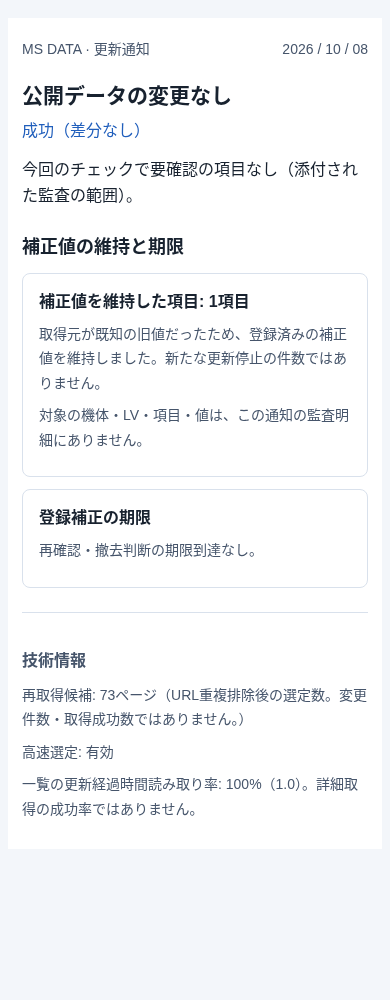
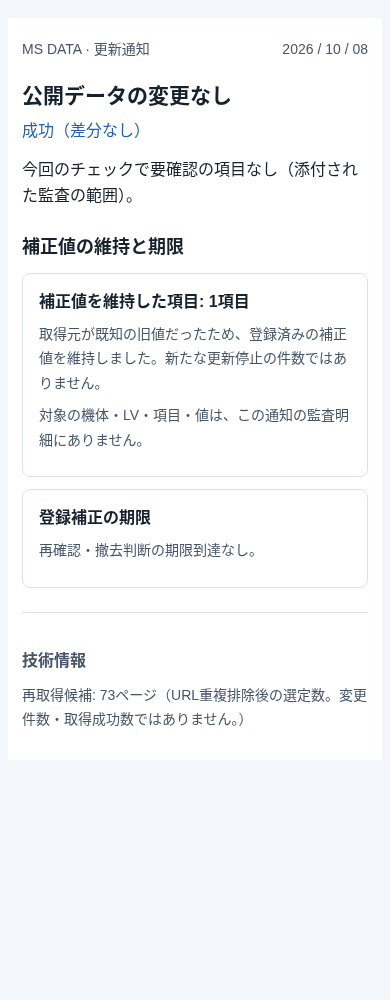
fix(notify): 空の監査表と取得証拠の対象不一致を扱う

diff --git a/docs/notification_examples/no-change.html b/docs/notification_examples/no-change.html
@@ -26,7 +26,7 @@
 <p class="result" style="color:#215fbc;font-size:16px;margin:0 0 12px">成功（差分なし）</p>
 <p class="action" style="font-size:16px;margin:0 0 24px">今回のチェックで要確認の項目なし（添付された監査の範囲）。</p>
 <div class="maintenance" style="margin:24px 0 0"><h2 style="font-size:18px;line-height:1.5;margin:0 0 12px;font-weight:600">補正値の維持と期限</h2><div class="audit-card" style="padding:16px;border:1px solid #d9e1ec;border-radius:8px;margin:0 0 12px;background:#fff;overflow-wrap:anywhere;word-wrap:break-word"><h3 style="font-size:16px;line-height:1.5;margin:0 0 8px;font-weight:600">補正値を維持した項目: 1項目</h3><p class="note" style="font-size:14px;line-height:1.75;color:#46556b;margin:8px 0;overflow-wrap:anywhere;word-wrap:break-word">取得元が既知の旧値だったため、登録済みの補正値を維持しました。新たな更新停止の件数ではありません。</p><p class="note" style="font-size:14px;line-height:1.75;color:#46556b;margin:8px 0;overflow-wrap:anywhere;word-wrap:break-word">対象の機体・LV・項目・値は、この通知の監査明細にありません。</p></div><div class="audit-card" style="padding:16px;border:1px solid #d9e1ec;border-radius:8px;margin:0 0 12px;background:#fff;overflow-wrap:anywhere;word-wrap:break-word"><h3 style="font-size:16px;line-height:1.5;margin:0 0 8px;font-weight:600">登録補正の期限</h3><p class="note" style="font-size:14px;line-height:1.75;color:#46556b;margin:8px 0;overflow-wrap:anywhere;word-wrap:break-word">再確認・撤去判断の期限到達なし。</p></div></div>
-<div class="footer" style="border-top:1px solid #d9e1ec;margin-top:24px;padding-top:20px"><h2 class="footer-heading" style="font-size:18px;line-height:1.5;margin:0 0 12px;font-weight:600;font-size:16px;margin:16px 0 10px;color:#46556b;font-weight:600">技術情報</h2><p class="note" style="font-size:14px;line-height:1.75;color:#46556b;margin:8px 0;overflow-wrap:anywhere;word-wrap:break-word">再取得候補: 73ページ（URL重複排除後の選定数。変更件数・取得成功数ではありません。）</p><p class="note" style="font-size:14px;line-height:1.75;color:#46556b;margin:8px 0;overflow-wrap:anywhere;word-wrap:break-word">高速選定: 有効</p><p class="note" style="font-size:14px;line-height:1.75;color:#46556b;margin:8px 0;overflow-wrap:anywhere;word-wrap:break-word">一覧の更新経過時間読み取り率: 100%（1.0）。詳細取得の成功率ではありません。</p></div>
+<div class="footer" style="border-top:1px solid #d9e1ec;margin-top:24px;padding-top:20px"><h2 class="footer-heading" style="font-size:18px;line-height:1.5;margin:0 0 12px;font-weight:600;font-size:16px;margin:16px 0 10px;color:#46556b;font-weight:600">技術情報</h2><p class="note" style="font-size:14px;line-height:1.75;color:#46556b;margin:8px 0;overflow-wrap:anywhere;word-wrap:break-word">再取得候補: 73ページ（URL重複排除後の選定数。変更件数・取得成功数ではありません。）</p></div>
 </td></tr>
 </table>
 </td></tr>

diff --git a/ms_data/reporting/update_mail_model.py b/ms_data/reporting/update_mail_model.py
@@ -285,6 +285,13 @@ def _detail_count_issues(
     issues = []
     for summary_heading, specs in _DETAIL_COUNTS.items():
         summary = summaries.get(summary_heading, {})
+        has_evidence = summary_heading == "official_overrides監査" and (
+            "対象値" in summary or "登録補正 / 取得証拠" in sections
+        )
+        evidence_targets = {
+            (row.get("MS名"), row.get("項目"))
+            for row in parsed.get("登録補正 / 取得証拠", [])
+        }
         # 旧通知のサマリだけの場合、明細未添付を維持欄で明示する。
         # 明細または対象総数のある監査では、各状態の対象をすべて照合する。
         if "対象値" not in summary and not any(
@@ -325,6 +332,16 @@ def _detail_count_issues(
                         ],
                     )
                 )
+            if has_evidence and not targets <= evidence_targets:
+                issues.append(
+                    MailCard(
+                        f"{heading}: 取得証拠の対象を確認",
+                        [
+                            "対象明細と取得証拠の対象が一致しません。この通知では対象の今回取得値を確認できません。",
+                            "監査レポートの機体・LV・項目と取得証拠を照合してください。",
+                        ],
+                    )
+                )
     return issues
 
 
@@ -353,8 +370,9 @@ def _audit_tables(lines: list[str]) -> tuple[list[dict[str, str]], list[str]]:
             or "MS名" not in headers
         ):
             remainder.append(line)
-        elif values[headers.index("MS名")] == "なし" and not any(
-            v for i, v in enumerate(values) if headers[i] != "MS名"
+        elif (values[0] == "なし" and not any(values[1:])) or (
+            values[headers.index("MS名")] == "なし"
+            and not any(v for i, v in enumerate(values) if headers[i] != "MS名")
         ):
             continue
         else:
@@ -622,7 +640,7 @@ def build_mail_view(body: str) -> MailView:
                     "remove_after": "撤去判断期限",
                     "変更後": "更新候補値",
                 }.get(key, key)
-                if key == "取得値" and state and state not in {"match", "mismatch"}:
+                if key == "取得値" and state not in {"match", "mismatch"}:
                     label = "監査記録の値（今回の取得値として未確認）"
                 if key == "状態":
                     value = _STATUS_LABELS.get(value, (value, ""))[0]
@@ -634,6 +652,8 @@ def build_mail_view(body: str) -> MailView:
                 card.values.append((label, value if value else "監査記録なし"))
             if state:
                 card.lines.append("取得証拠: " + _EVIDENCE_STATES.get(state, state))
+            elif heading.startswith("登録補正 / "):
+                card.lines.append("取得証拠: この通知に対象の取得証拠なし")
             status = row.get("期限状態") or row.get("状態") or row.get("種別")
             if heading == "ガード / LV間で増減が混在した候補":
                 status = "mixed_level_change"
@@ -651,9 +671,7 @@ def build_mail_view(body: str) -> MailView:
             if status in _STATUS_ACTIONS:
                 card.lines.append("次の対応: " + _STATUS_ACTIONS[status])
                 attention.append(card)
-            elif heading == "登録補正 / 適用中" and (
-                state and state not in {"match", "mismatch"}
-            ):
+            elif heading == "登録補正 / 適用中" and state not in {"match", "mismatch"}:
                 card.lines.append(
                     "次の対応: 取得証拠と補正維持の監査状態が整合しているか確認してください。"
                 )

diff --git a/tests/test_update_mail_model.py b/tests/test_update_mail_model.py
@@ -449,6 +449,7 @@ def test_global_safety_stop_is_not_described_as_partial_hold() -> None:
         ("protected_by_override", "active", "適用中", "missing"),
         ("protected_by_override", "active", "適用中", "duplicate"),
         ("protected_by_override", "active", "適用中", "wrong_status"),
+        ("protected_by_override", "active", "適用中", "wrong_target"),
         ("upstream_current", "active", "撤去候補", "missing"),
         ("source_changed", "active", "要確認", "missing"),
         ("protected_by_override", "review_due", "期限確認", "missing"),
@@ -470,12 +471,19 @@ def test_state_specific_missing_duplicate_or_mislabeled_details_warn(
         )
     elif mutation == "duplicate":
         altered = section.replace("表示確認機_LV3", "表示確認機_LV2")
+    elif mutation == "wrong_target":
+        altered = section.replace("表示確認機_LV3", "証拠なし機_LV3")
     else:
         altered = section.replace("protected_by_override", "unknown_status", 1)
     plain, soup = _build(tmp_path, report=report.replace(section, altered, 1))
     warning = soup.select_one(".warning").get_text()
-    assert f"登録補正 / {heading}: 明細を確認" in warning
-    assert "状態別の件数・対象明細が整合していません。" in plain
+    if mutation == "wrong_target":
+        assert "対象明細と取得証拠の対象が一致しません。" in warning
+        assert "証拠なし機_LV3" in warning
+        assert "監査記録の値（今回の取得値として未確認）" in warning
+    else:
+        assert f"登録補正 / {heading}: 明細を確認" in warning
+        assert "状態別の件数・対象明細が整合していません。" in plain
     assert "要確認の項目なし" not in plain
 
 
@@ -538,3 +546,30 @@ def test_unknown_source_action_is_not_inferred_as_partial_hold() -> None:
     assert "unknown_action" in plain
     assert "他の正常候補は通常レビューを継続" not in plain
     assert "要確認の項目なし" not in plain
+
+
+def test_empty_real_audit_tables_are_not_reported_as_unnamed_targets(
+    tmp_path: Path,
+) -> None:
+    guard, source = tmp_path / "guard.md", tmp_path / "source.md"
+    guard.write_text(
+        render_report(
+            protected_rollbacks=[], numeric_decreases=[], mixed_level_changes=[]
+        ),
+        encoding="utf-8",
+    )
+    source.write_text(render_source(empty_audit()), encoding="utf-8")
+    plain, soup = _build(
+        tmp_path,
+        report=render_markdown([], Counter(), Counter()),
+        extra=[
+            "--rollback-guard-path",
+            str(guard),
+            "--source-slot-audit-path",
+            str(source),
+        ],
+    )
+    assert soup.select(".warning") == []
+    assert "今回のチェックで要確認の項目なし" in plain
+    assert "###  / " not in plain
+    assert "次の対応" not in plain

diff --git a/tests/fixtures/mail/no-change.md b/tests/fixtures/mail/no-change.md
@@ -2,9 +2,6 @@
 - 結果: 成功（差分なし）
 - msData.json変更: false
 - candidate_count: 73
-- fast_path: true
-- age_coverage: 1.0
-- fallback_reason: none
 
 ## 巻き戻りガード
 - protected_rollback: 0
